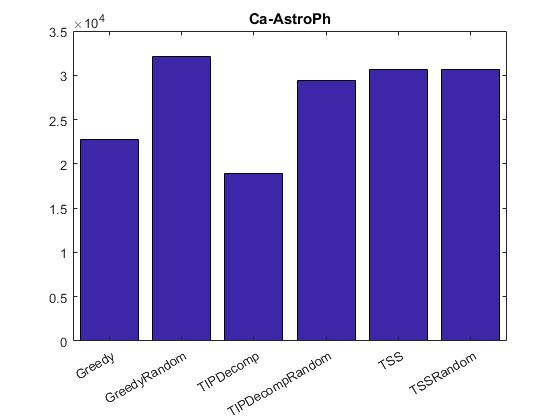
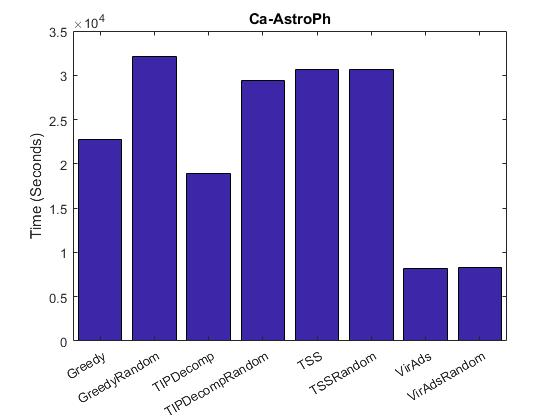
Graphs added to paper

diff --git a/Working_Paper/results.tex b/Working_Paper/results.tex
@@ -1,5 +1,11 @@
-
+\clearpage
 \section{Results}
+\subsection{Random Graphs}
+
+We compare the output of the algorithm versus the exact solution obtained by formulating the target set selection problem as an 0-1 Integer Linear Programming problem. This is to show that the algorithm works on moderate sized graphs. 
+
+
+
 \subsection{TSS applied to real-life networks}
 
 We apply the TSS algorithm to real-life networks and compare it to the previously developed algorithm and a greedy version of TSS. The threshold of the nodes are set as $t(v)\in(1,2,...,10)$ for each iteration. For the random version of algorithms if more than one node meets the condition of cases we randomly selected a node from the set of nodes that satisfy the condition in each algorithm. The selection of nodes in case 3 of TSS can be randomized. We test if randomness of selection of nodes affect the cardinality of the target set and the runtime of the algorithm.
@@ -26,17 +32,23 @@ We get our data from real-life networks\cite{datasets1}\cite{datasets2}. The fol
 \end{minipage}
 \end{figure}
 
-\begin{figure}
-	\centering	
-	\includegraphics[scale=0.5]{images/bc3resultrandom.jpg}
-	\caption{BlogCatalog3 Random}
+\begin{figure}[h!]
+\begin{minipage}[t]{0.50\textwidth}
+\includegraphics[width=\linewidth,keepaspectratio=true]{images/bc3resultrandom.jpg}
+\caption{Time vs Threshold}
+
+\end{minipage}
+\begin{minipage}[t]{0.50\textwidth}
+\includegraphics[width=\linewidth,keepaspectratio=true]{images/bc3time1.jpg}
+\caption{Time vs Threshold}
+\end{minipage}
 \end{figure}
 
 \begin{figure}[h!]
 \begin{minipage}[t]{0.50\textwidth}
 \includegraphics[width=\linewidth,keepaspectratio=true]{images/bc3time.jpg}
 \caption{Time vs Threshold}
-\label{fase1}
+
 \end{minipage}
 \begin{minipage}[t]{0.50\textwidth}
 \includegraphics[width=\linewidth,keepaspectratio=true]{images/bc3timerandom.jpg}
@@ -47,7 +59,7 @@ We get our data from real-life networks\cite{datasets1}\cite{datasets2}. The fol
 \begin{minipage}[t]{0.50\textwidth}
 \includegraphics[width=\linewidth,keepaspectratio=true]{images/ca-astrophpaper.jpg}
 \caption{Cardinality vs Threshold}
-\label{fase1}
+
 \end{minipage}
 \begin{minipage}[t]{0.50\textwidth}
 \includegraphics[width=\linewidth,keepaspectratio=true]{images/ca-astrophresult.jpg}
@@ -55,17 +67,23 @@ We get our data from real-life networks\cite{datasets1}\cite{datasets2}. The fol
 \end{minipage}
 \end{figure}
 
-\begin{figure}
-	\centering	
-	\includegraphics[scale=0.5]{images/ca-astrophresultrandom.jpg}
-	\caption{BlogCatalog3 Random}
+\begin{figure}[h!]
+\begin{minipage}[t]{0.50\textwidth}
+\includegraphics[width=\linewidth,keepaspectratio=true]{images/ca-astrophresultrandom.jpg}
+\caption{Time vs Threshold}
+
+\end{minipage}
+\begin{minipage}[t]{0.50\textwidth}
+\includegraphics[width=\linewidth,keepaspectratio=true]{images/astrophtime.jpg}
+\caption{Time vs Threshold}
+\end{minipage}
 \end{figure}
 
 \begin{figure}[h!]
 \begin{minipage}[t]{0.50\textwidth}
 \includegraphics[width=\linewidth,keepaspectratio=true]{images/ca-astrophtime.jpg}
 \caption{Time vs Threshold}
-\label{fase1}
+
 \end{minipage}
 \begin{minipage}[t]{0.50\textwidth}
 \includegraphics[width=\linewidth,keepaspectratio=true]{images/ca-astrophtimerandom.jpg}
@@ -77,7 +95,7 @@ We get our data from real-life networks\cite{datasets1}\cite{datasets2}. The fol
 \begin{minipage}[t]{0.50\textwidth}
 \includegraphics[width=\linewidth,keepaspectratio=true]{images/ca-condmatpaper.jpg}
 \caption{Cardinality vs Threshold}
-\label{fase1}
+
 \end{minipage}
 \begin{minipage}[t]{0.50\textwidth}
 \includegraphics[width=\linewidth,keepaspectratio=true]{images/ca-condmatresult.jpg}
@@ -85,17 +103,23 @@ We get our data from real-life networks\cite{datasets1}\cite{datasets2}. The fol
 \end{minipage}
 \end{figure}
 
-\begin{figure}
-	\centering	
-	\includegraphics[scale=0.5]{images/ca-condmatresultrandom.jpg}
-	\caption{BlogCatalog3 Random}
+\begin{figure}[h!]
+\begin{minipage}[t]{0.50\textwidth}
+\includegraphics[width=\linewidth,keepaspectratio=true]{images/ca-condmatresultrandom.jpg}
+\caption{Time vs Threshold}
+
+\end{minipage}
+\begin{minipage}[t]{0.50\textwidth}
+\includegraphics[width=\linewidth,keepaspectratio=true]{images/condmattime.jpg}
+\caption{Time vs Threshold}
+\end{minipage}
 \end{figure}
 
 \begin{figure}[h!]
 \begin{minipage}[t]{0.50\textwidth}
 \includegraphics[width=\linewidth,keepaspectratio=true]{images/ca-condmattime.jpg}
 \caption{Time vs Threshold}
-\label{fase1}
+
 \end{minipage}
 \begin{minipage}[t]{0.50\textwidth}
 \includegraphics[width=\linewidth,keepaspectratio=true]{images/ca-condmatrandomtime.jpg}
@@ -107,7 +131,7 @@ We get our data from real-life networks\cite{datasets1}\cite{datasets2}. The fol
 \begin{minipage}[t]{0.50\textwidth}
 \includegraphics[width=\linewidth,keepaspectratio=true]{images/ca-hepphpaper.jpg}
 \caption{Cardinality vs Threshold}
-\label{fase1}
+
 \end{minipage}
 \begin{minipage}[t]{0.50\textwidth}
 \includegraphics[width=\linewidth,keepaspectratio=true]{images/ca-hepphresult.jpg}
@@ -115,17 +139,23 @@ We get our data from real-life networks\cite{datasets1}\cite{datasets2}. The fol
 \end{minipage}
 \end{figure}
 
-\begin{figure}
-	\centering	
-	\includegraphics[scale=0.5]{images/ca-hepphresultrandom.jpg}
-	\caption{BlogCatalog3 Random}
+\begin{figure}[h!]
+\begin{minipage}[t]{0.50\textwidth}
+\includegraphics[width=\linewidth,keepaspectratio=true]{images/ca-hepphresultrandom.jpg}
+\caption{Time vs Threshold}
+
+\end{minipage}
+\begin{minipage}[t]{0.50\textwidth}
+\includegraphics[width=\linewidth,keepaspectratio=true]{images/hepphtime.jpg}
+\caption{Time vs Threshold}
+\end{minipage}
 \end{figure}
 
 \begin{figure}[h!]
 \begin{minipage}[t]{0.50\textwidth}
 \includegraphics[width=\linewidth,keepaspectratio=true]{images/ca-hepphtime.jpg}
 \caption{Time vs Threshold}
-\label{fase1}
+
 \end{minipage}
 \begin{minipage}[t]{0.50\textwidth}
 \includegraphics[width=\linewidth,keepaspectratio=true]{images/ca-hepphrandomtime.jpg}
@@ -137,7 +167,7 @@ We get our data from real-life networks\cite{datasets1}\cite{datasets2}. The fol
 \begin{minipage}[t]{0.50\textwidth}
 \includegraphics[width=\linewidth,keepaspectratio=true]{images/ca-hepthpaper.jpg}
 \caption{Cardinality vs Threshold}
-\label{fase1}
+
 \end{minipage}
 \begin{minipage}[t]{0.50\textwidth}
 \includegraphics[width=\linewidth,keepaspectratio=true]{images/ca-hepthresult.jpg}
@@ -145,17 +175,23 @@ We get our data from real-life networks\cite{datasets1}\cite{datasets2}. The fol
 \end{minipage}
 \end{figure}
 
-\begin{figure}
-	\centering	
-	\includegraphics[scale=0.5]{images/ca-hepthresultrandom.jpg}
-	\caption{BlogCatalog3 Random}
+\begin{figure}[h!]
+\begin{minipage}[t]{0.50\textwidth}
+\includegraphics[width=\linewidth,keepaspectratio=true]{images/ca-hepthresultrandom.jpg}
+\caption{Time vs Threshold}
+
+\end{minipage}
+\begin{minipage}[t]{0.50\textwidth}
+\includegraphics[width=\linewidth,keepaspectratio=true]{images/hepthtime.jpg}
+\caption{Time vs Threshold}
+\end{minipage}
 \end{figure}
 
 \begin{figure}[h!]
 \begin{minipage}[t]{0.50\textwidth}
 \includegraphics[width=\linewidth,keepaspectratio=true]{images/ca-hepthtime.jpg}
 \caption{Time vs Threshold}
-\label{fase1}
+
 \end{minipage}
 \begin{minipage}[t]{0.50\textwidth}
 \includegraphics[width=\linewidth,keepaspectratio=true]{images/ca-hepthrandomtime.jpg}
@@ -167,7 +203,7 @@ We get our data from real-life networks\cite{datasets1}\cite{datasets2}. The fol
 \begin{minipage}[t]{0.50\textwidth}
 \includegraphics[width=\linewidth,keepaspectratio=true]{images/ca-grqcpaper.jpg}
 \caption{Cardinality vs Threshold}
-\label{fase1}
+
 \end{minipage}
 \begin{minipage}[t]{0.50\textwidth}
 \includegraphics[width=\linewidth,keepaspectratio=true]{images/ca-grqcresult.jpg}
@@ -175,17 +211,23 @@ We get our data from real-life networks\cite{datasets1}\cite{datasets2}. The fol
 \end{minipage}
 \end{figure}
 
-\begin{figure}
-	\centering	
-	\includegraphics[scale=0.5]{images/ca-grqcresultrandom.jpg}
-	\caption{BlogCatalog3 Random}
+\begin{figure}[h!]
+\begin{minipage}[t]{0.50\textwidth}
+\includegraphics[width=\linewidth,keepaspectratio=true]{images/ca-grqcresultrandom.jpg}
+\caption{Time vs Threshold}
+
+\end{minipage}
+\begin{minipage}[t]{0.50\textwidth}
+\includegraphics[width=\linewidth,keepaspectratio=true]{images/grqctime.jpg}
+\caption{Time vs Threshold}
+\end{minipage}
 \end{figure}
 
 \begin{figure}[h!]
 \begin{minipage}[t]{0.50\textwidth}
 \includegraphics[width=\linewidth,keepaspectratio=true]{images/ca-grqctime.jpg}
 \caption{Time vs Threshold}
-\label{fase1}
+
 \end{minipage}
 \begin{minipage}[t]{0.50\textwidth}
 \includegraphics[width=\linewidth,keepaspectratio=true]{images/ca-grqcrandomtime.jpg}

diff --git a/Working_Paper/intro.tex b/Working_Paper/intro.tex
@@ -134,7 +134,9 @@ t(C)=0.8 & t(D)=0.3\\
 \subsubsection{Independent Cascade Model}
 Now, in this model, we assume that when a person tries you influence you, they only have that one chance to do so. After that, they lose their chance of doing it again. We still have the knowledge that different people have different weights assigned to their words. In this model, however, we assign a percentage that determines how likely is that person to influence you. Say, your mother has a 90\% chance to recommend you a product but, on the contrary, the known scam artist has a 15\% chance of influencing you.
 
-Given a simple directed graph $G(V,E)$,we assign a probability $P_{u,v}(e)$, this defines the probability of $u$ infecting $v$. Each node can try to influence its neighbor. When a node is influenced successfully, the node being influenced becomes active. If a node fails to influence a neighbor they cannot try to influence that node again.\cite{Kempe}\cite{Shakarian:2012:LSN:2456719.2457081}
+Given a simple directed graph $G(V,E)$,we assign a random probability $P_{u,v}(e)$, this defines the probability of $u$ infecting $v$. Say, $P_{u,v}(e) \geq 0.5$ if that node has a relationship to its neighbors, $\leq 0.5 /otherwise$. 
+
+Each node can try to influence its neighbor. When a node is influenced successfully, the node being influenced becomes active. If a node fails to influence a neighbor they cannot try to influence that node again.\cite{Kempe}\cite{Shakarian:2012:LSN:2456719.2457081}
 
 We define a simple directed graph
 \begin{equation}

diff --git a/Data Analysis/barTime.m b/Data Analysis/barTime.m
@@ -10,10 +10,11 @@ time=[time  sum(A(:,3))/(length(A)/10) sum(B(:,3))/(length(B)/10)];
 A=csvread(strcat(dataset,'/TIPDecomp.csv'),0,0);
 B=csvread(strcat(dataset,'/TIPDecompRandom.csv'),0,0);
 time=[time  sum(A(:,3))/(length(A)/10) sum(B(:,3))/(length(B)/10)];
-%A=csvread(strcat(dataset,'/VirAds.csv'),0,0);
-%B=csvread(strcat(dataset,'/VirAdsRandom.csv'),0,0);
-%time=[time  sum(A(:,3))/(length(A)/10) sum(B(:,3))/(length(B)/10)];
-c = categorical({'TSS','TSSRandom','Greedy','GreedyRandom','TIPDecomp','TIPDecompRandom'});
+A=csvread(strcat(dataset,'/VirAds.csv'),0,0);
+B=csvread(strcat(dataset,'/VirAdsRandom.csv'),0,0);
+time=[time  sum(A(:,3))/(length(A)/10) sum(B(:,3))/(length(B)/10)];
+c = categorical({'TSS','TSSRandom','Greedy','GreedyRandom','TIPDecomp','TIPDecompRandom','VirAds','VirAdsRandom'});
 
 bar(c,time);
 title(titleData);
+ylabel('Time (Seconds)');

diff --git a/Source Codes/TIPDecomp.m b/Source Codes/TIPDecomp.m
@@ -26,12 +26,11 @@ while flag==true
                 G.Nodes.dist(currN(i))=G.Nodes.dist(currN(i))-1;
             else
                 G.Nodes.dist(currN(i))=inf;
-                S=[S currN(i)];
             end
         end
     end
     G.Nodes.dist(currVid)=inf;
     G.Nodes.Status(currVid)=1;
 end
- S=str2double(S);
+S=find(G.Nodes.Status==0);
 Time=toc(start);
